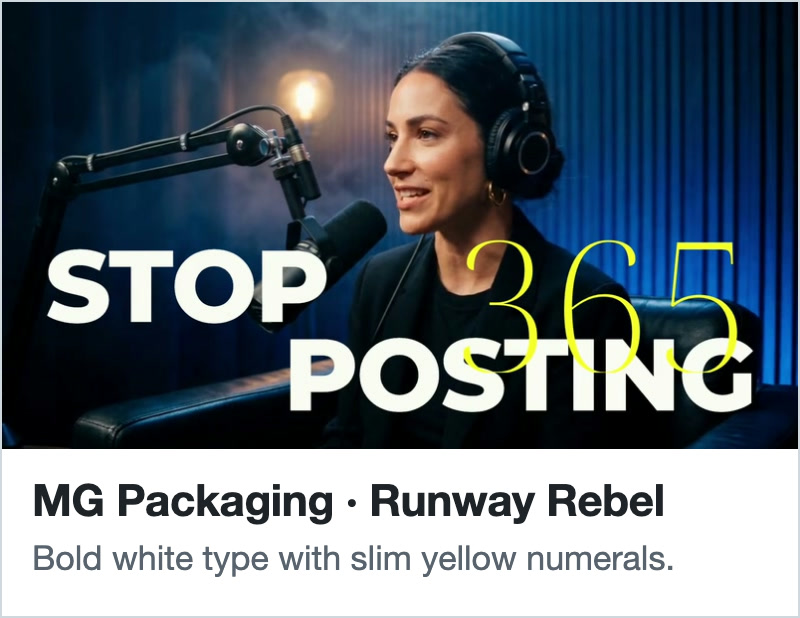
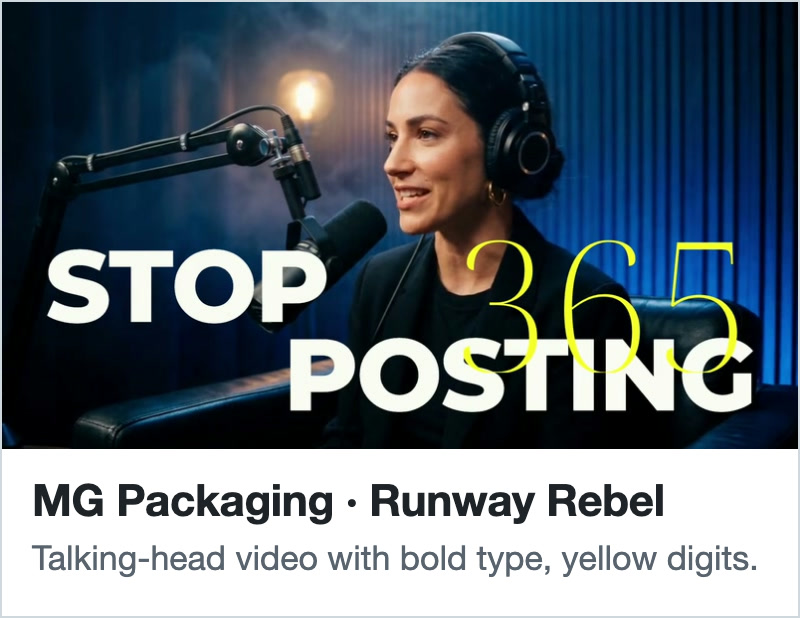
docs(readme): say what the MG Packaging cards do, mark the hero video slot

Changed region(s): [[0.0312, 0.8608, 0.9375, 0.9531]]

diff --git a/README.md b/README.md
@@ -34,13 +34,15 @@
 
 </div>
 
+<!-- Hero demo video: once it is uploaded, put its GitHub user-attachments URL on its own line here. -->
+
 <p align="center">
   <a href="https://chatcut.io/skills/speech-cleanup?utm_source=github&amp;utm_medium=readme&amp;utm_campaign=agent-plugin"><img src="docs/media/skills/speech-cleanup.jpg" width="260" alt="Speech Cleanup: removes retakes, long pauses and slips"></a>
   <a href="https://chatcut.io/viralvideocloner?utm_source=github&amp;utm_medium=readme&amp;utm_campaign=agent-plugin"><img src="docs/media/skills/viral-video-cloner.jpg" width="260" alt="Viral Video Cloner: keeps a viral video's moves, camera work and cuts, and swaps in your own people, product and setting"></a>
   <a href="https://chatcut.io/skills/add-captions?utm_source=github&amp;utm_medium=readme&amp;utm_campaign=agent-plugin"><img src="docs/media/skills/add-captions.jpg" width="260" alt="Add captions: readable captions in a style that fits"></a>
   <a href="https://chatcut.io/skills/recreate-a-video?utm_source=github&amp;utm_medium=readme&amp;utm_campaign=agent-plugin"><img src="docs/media/skills/recreate-a-video.jpg" width="260" alt="Talking-Head Edit Recreation: recreates a reference edit with your footage"></a>
-  <a href="https://chatcut.io/skills/mg-packaging-runway-rebel?utm_source=github&amp;utm_medium=readme&amp;utm_campaign=agent-plugin"><img src="docs/media/skills/mg-packaging-runway-rebel.jpg" width="260" alt="MG Packaging · Runway Rebel: bold white type with slim yellow numerals"></a>
-  <a href="https://chatcut.io/skills/mg-packaging-editorial-explainer?utm_source=github&amp;utm_medium=readme&amp;utm_campaign=agent-plugin"><img src="docs/media/skills/mg-packaging-editorial-explainer.jpg" width="260" alt="MG Packaging · Editorial Explainer: news-style motion graphics and data charts"></a>
+  <a href="https://chatcut.io/skills/mg-packaging-runway-rebel?utm_source=github&amp;utm_medium=readme&amp;utm_campaign=agent-plugin"><img src="docs/media/skills/mg-packaging-runway-rebel.jpg" width="260" alt="MG Packaging · Runway Rebel: packages your talking-head video in bold white type and slim yellow numerals"></a>
+  <a href="https://chatcut.io/skills/mg-packaging-editorial-explainer?utm_source=github&amp;utm_medium=readme&amp;utm_campaign=agent-plugin"><img src="docs/media/skills/mg-packaging-editorial-explainer.jpg" width="260" alt="MG Packaging · Editorial Explainer: packages your talking-head video with news-style motion graphics and data charts"></a>
 </p>
 
 ## Install
